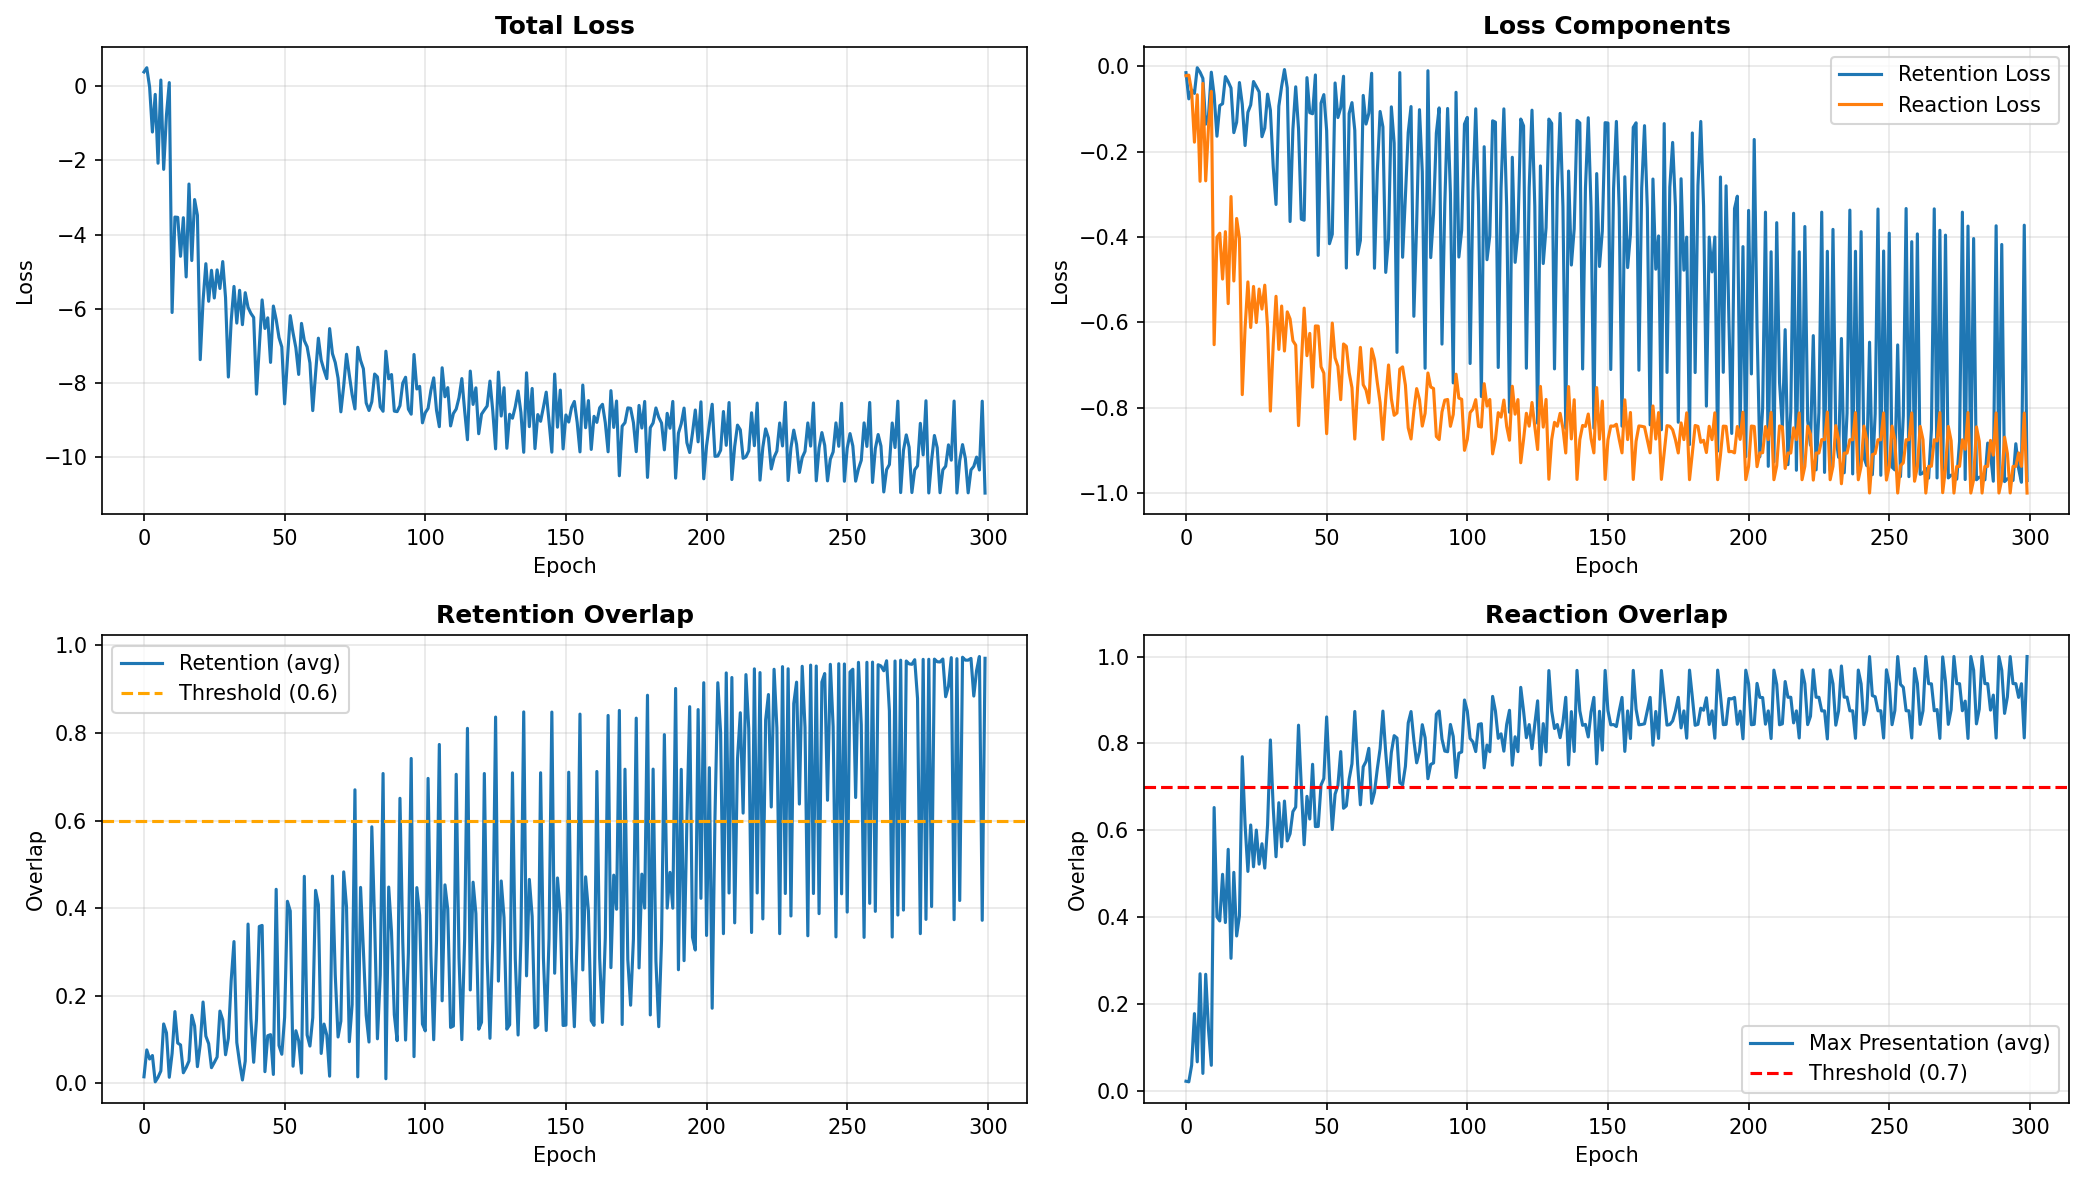
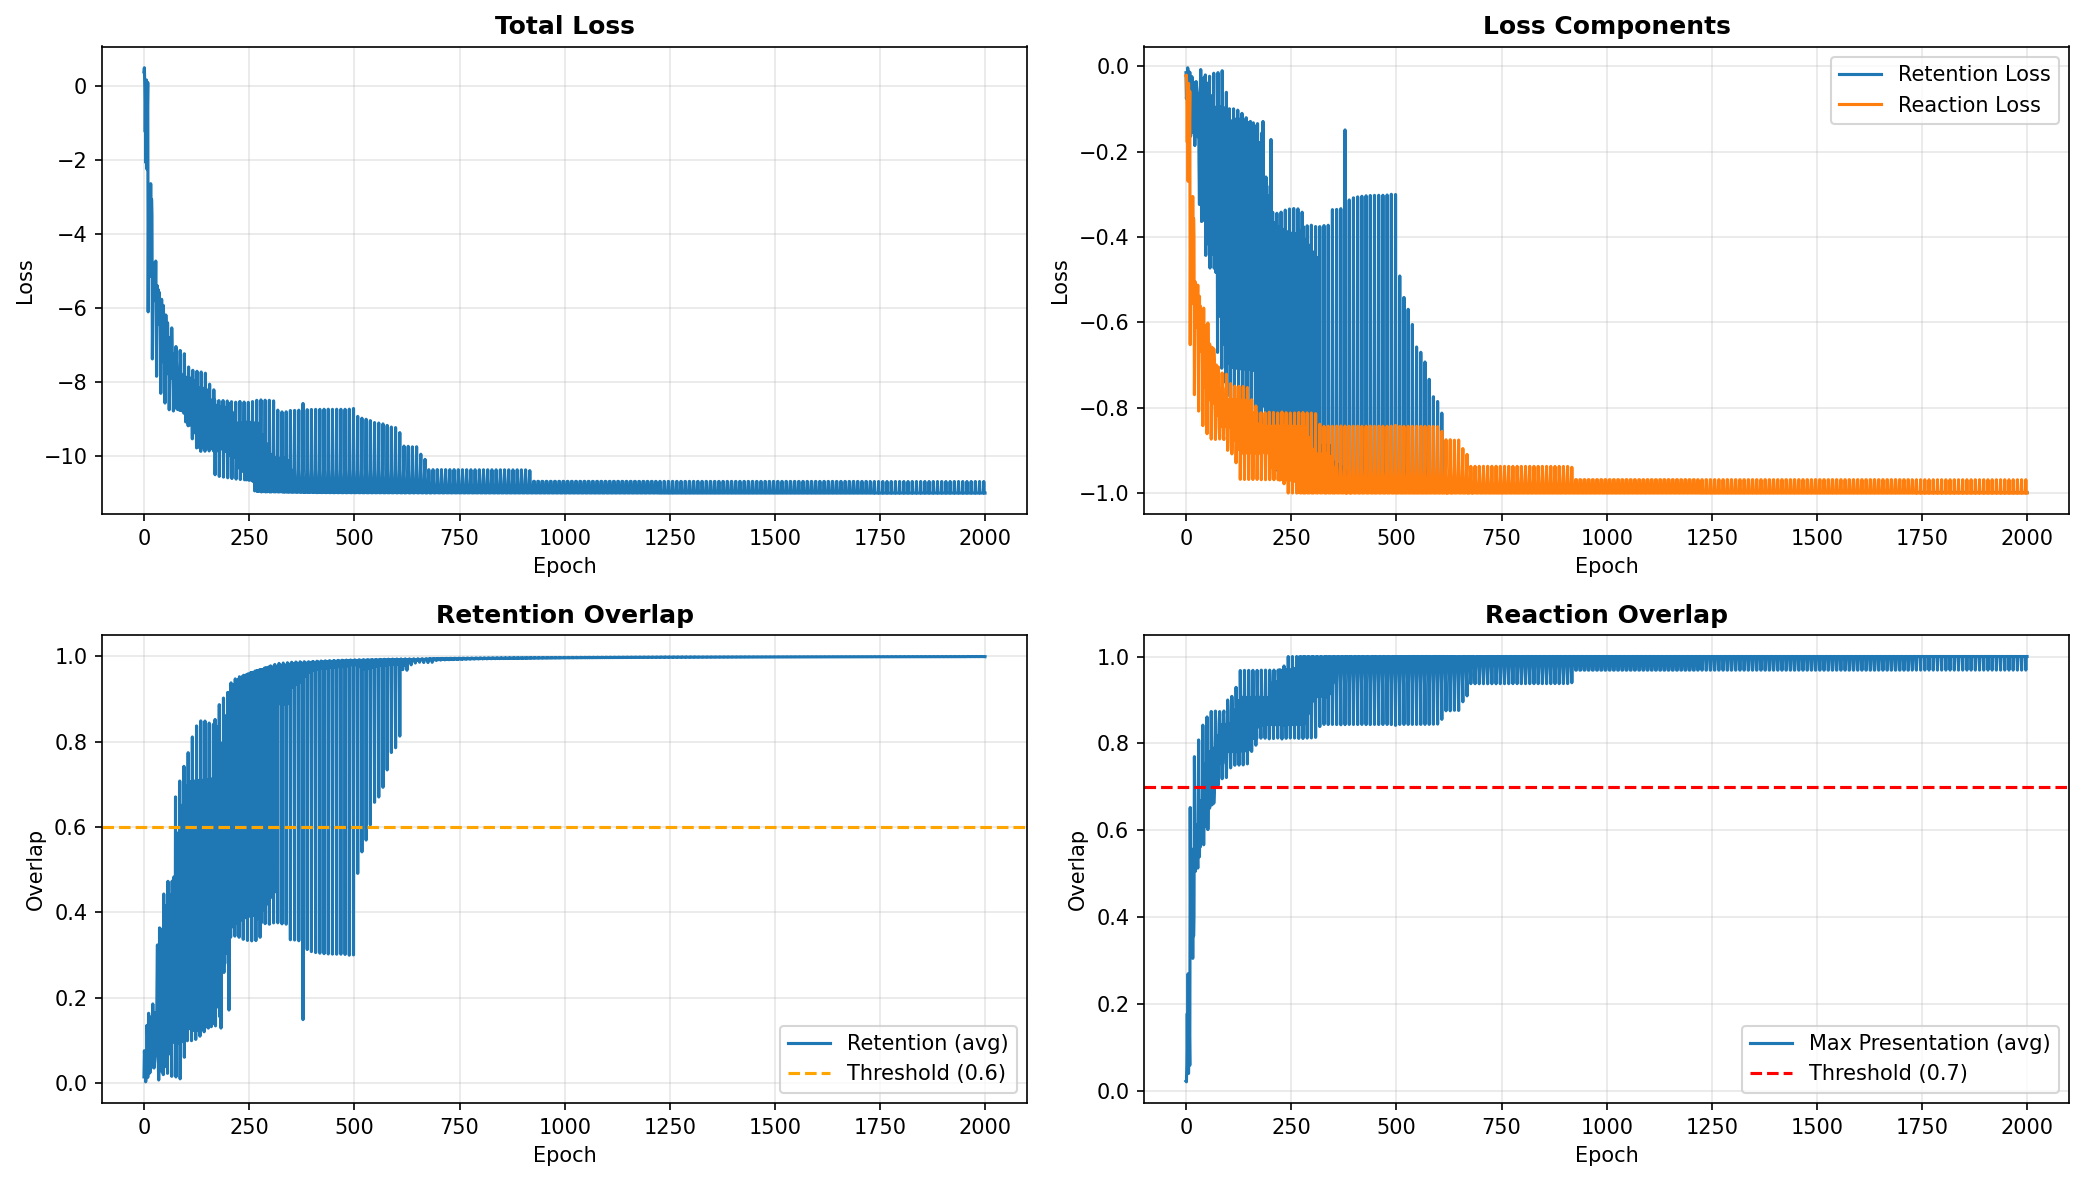
Add noise robustness testing for 5 memories - perfect convergence up to 50% noise

diff --git a/hnn_project/hnn_replica/src/rnn_weight_learning.py b/hnn_project/hnn_replica/src/rnn_weight_learning.py
@@ -23,7 +23,7 @@ TIMESTEPS_TOTAL = int(T_TOTAL / DT)
 TIMESTEPS_PRESENTATION = int(T_PRESENTATION / DT)
 
 BATCH_SIZE = 2
-N_EPOCHS = 300
+N_EPOCHS = 2000
 LEARNING_RATE = 0.005
 L2_LAMBDA = 1e-6
 
@@ -349,6 +349,61 @@ def test_model(model: VanillaRNN, suffix: str, fixed_memory: torch.Tensor):
     print(f"  Average Retention: {np.mean(ret_list):.3f}")
 
 
+def test_model_with_noise(model: VanillaRNN, suffix: str, fixed_memory: torch.Tensor, noise_std: float = 0.1):
+    """Test network robustness to noisy memory inputs (true Hopfield capacity test)."""
+    print("\n" + "=" * 80)
+    print(f"TESTING TRAINED MODEL WITH NOISY INPUT (noise_std={noise_std})")
+    print("=" * 80 + "\n")
+
+    n_mem = fixed_memory.shape[0]
+    
+    # Add noise to memories for testing
+    noisy_memories = fixed_memory + torch.randn_like(fixed_memory) * noise_std
+    noisy_memories = torch.clamp(noisy_memories, -1.0, 1.0)  # Keep in valid range
+    
+    input_seq = generate_input_sequence(noisy_memories, TIMESTEPS_PRESENTATION, TIMESTEPS_TOTAL)
+    
+    with torch.no_grad():
+        states = model(input_seq)
+        # Compute overlap with CLEAN patterns (not noisy)
+        overlaps = compute_overlap(states, fixed_memory)
+
+    time = np.arange(TIMESTEPS_TOTAL) * DT
+    fig, axes = plt.subplots(n_mem, 1, figsize=(12, 5 * n_mem))
+    if n_mem == 1:
+        axes = [axes]
+
+    ret_list, react_list = [], []
+    for i in range(n_mem):
+        curve = overlaps[i].cpu().numpy()
+        ret = curve[TIMESTEPS_PRESENTATION:].mean()
+        react = curve[:TIMESTEPS_PRESENTATION].max()
+        ret_list.append(ret)
+        react_list.append(react)
+
+        axes[i].plot(time, curve, linewidth=2, label=f"Memory {i + 1} (converged from noisy input)")
+        axes[i].axvline(x=T_PRESENTATION, color="gray", linestyle="--", label="End of presentation")
+        axes[i].axhline(y=RESPONSE_THRESHOLD, color="r", linestyle="--", alpha=0.5, label="Response threshold")
+        axes[i].axhline(y=RETENTION_THRESHOLD, color="orange", linestyle="--", alpha=0.5, label="Retention threshold")
+        axes[i].set_title(f"Memory {i + 1}: Reaction={react:.3f}, Retention={ret:.3f}", fontweight="bold")
+        axes[i].set_xlabel("Time (s)")
+        axes[i].set_ylabel("Overlap (with clean pattern)")
+        axes[i].legend()
+        axes[i].grid(True, alpha=0.3)
+
+    plt.tight_layout()
+    fname = EXPERIMENT_DIR / f"test_trajectory_noisy_{suffix}.png"
+    plt.savefig(fname, dpi=150, bbox_inches="tight")
+    print(f"✓ Saved: {fname}")
+    plt.close()
+
+    print(f"Test Results (input corrupted by noise_std={noise_std}):")
+    for i in range(n_mem):
+        print(f"  Memory {i + 1} - Reaction: {react_list[i]:.3f}, Retention: {ret_list[i]:.3f}")
+    print(f"  Average Reaction: {np.mean(react_list):.3f}")
+    print(f"  Average Retention: {np.mean(ret_list):.3f}")
+
+
 def run_tanh_two_memory():
     print("\n" + "=" * 80)
     print("RNN WEIGHT LEARNING EXPERIMENT (tanh, 2 memories)")
@@ -398,5 +453,31 @@ def run_tanh_memory_sweep(memory_counts: list[int] | None = None):
         test_model(model, suffix, fixed_memory)
 
 
+def run_tanh_five_memory_with_noise(noise_std: float = 0.1):
+    print("\n" + "=" * 80)
+    print(f"RNN WEIGHT LEARNING EXPERIMENT (tanh, 5 memories, with noise std={noise_std})")
+    print("=" * 80)
+
+    fixed_memory = generate_memory_patterns(5, N_NEURONS)
+    print("\n>>> Training (300 epochs)...")
+    model, history = train_rnn(
+        loss_option="a",
+        n_epochs=300,
+        fixed_memory=fixed_memory,
+        activation="tanh",
+        target_retention=0.99,
+        target_reaction=0.99,
+        patience=20,
+    )
+    plot_training_history(history, "option_a_tanh_5mem_noise")
+    visualize_learned_weights(model, "option_a_tanh_5mem_noise")
+    
+    print("\n>>> Testing with clean patterns...")
+    test_model(model, "option_a_tanh_5mem_noise", fixed_memory)
+    
+    print(f"\n>>> Testing with noisy patterns (noise_std={noise_std})...")
+    test_model_with_noise(model, "option_a_tanh_5mem_noise", fixed_memory, noise_std=noise_std)
+
+
 if __name__ == "__main__":
-    run_tanh_memory_sweep()
+    run_tanh_five_memory_with_noise(noise_std=0.1)
